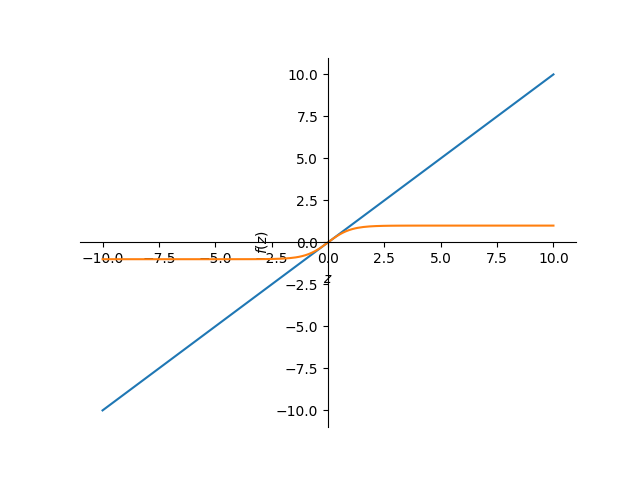
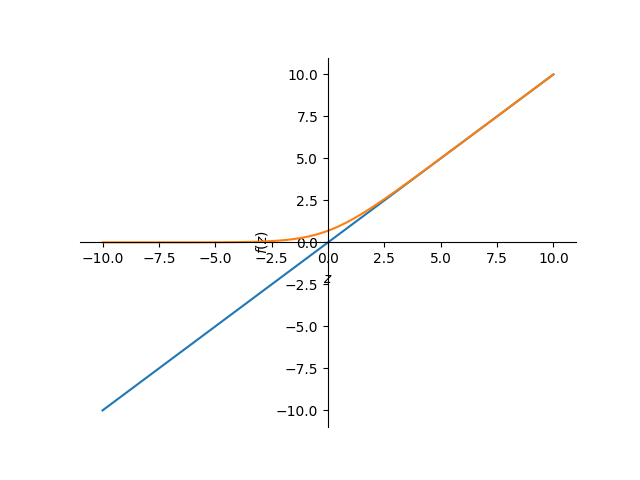
ff

diff --git a/algorithms/ml/supervised/activation_functions.py b/algorithms/ml/supervised/activation_functions.py
@@ -63,7 +63,7 @@ functions: List[FunctionDef] = [
         Piecewise(
             (alpha * z, z < 0),
             (z, z >= 0)
-        )
+        ),
     ),
     FunctionDef(
         "Binary step",
@@ -86,7 +86,7 @@ functions: List[FunctionDef] = [
 ]
 
 def row(func: FunctionDef):
-    p = plot(z, func.formula)
+    p = plot(z, func.formula.subs(alpha, 0.01))
     p.save("test.png")
     return f"""
     <tr>
